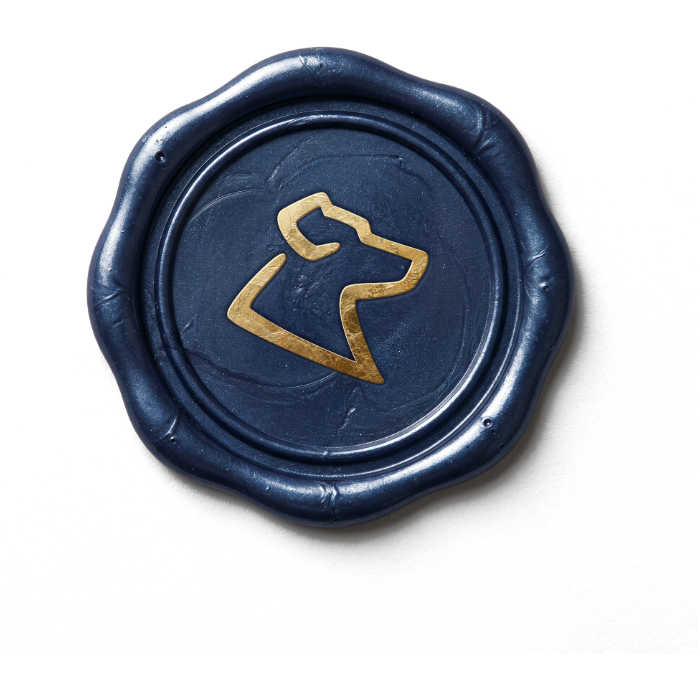
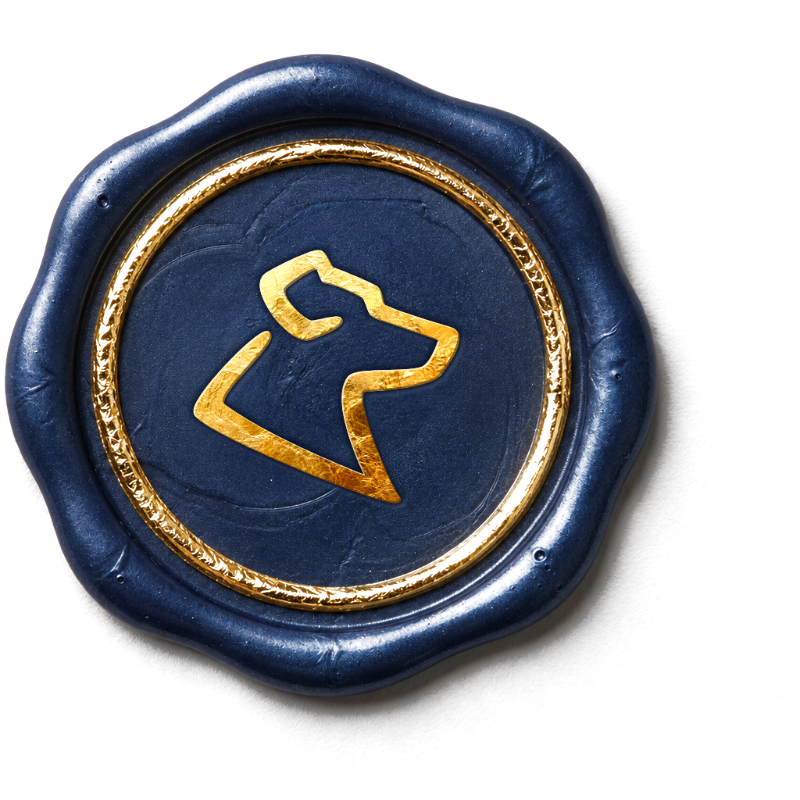
Pečať 2026 v4: zlatý vnútorný kruh, lesklejšia fólia; na faktúre 46 mm (bolo 34)
Claude-Session: https://claude.ai/code/session_01VdPRjyP4qheiKVWdgVFThZ

diff --git a/src/pages/InvoiceRender.tsx b/src/pages/InvoiceRender.tsx
@@ -488,9 +488,10 @@ export default function InvoiceRender() {
     }
     .paid-stamp small { display: block; font-size: 8px; letter-spacing: .34em; font-weight: 500; margin-top: 1.5mm; opacity: .85; }
     .seal {
-      position: absolute; left: 50%; bottom: 24mm;
+      position: absolute; left: 50%; bottom: 20mm;
       transform: translateX(-50%) rotate(-5deg);
-      width: 34mm; height: 34mm; z-index: 3;
+      /* 46 mm (bolo 34) — Matej 24. 11.: „na fakture daj pečať väčšiu“ */
+      width: 46mm; height: 46mm; z-index: 3;
     }
     .seal img {
       width: 100%; height: 100%; object-fit: contain;
@@ -500,7 +501,7 @@ export default function InvoiceRender() {
     /* Pečať sa zmenší LEN keď by do nej narazil obsah (Matej 25. 9. 2026:
        *„nevidím dôvod prečo pri 4 psoch je menšia pečať“*). Triedu dáva meranie
        pred data-render-ready, nie počet psov. */
-    #invoice-page.tight .seal { width: 22mm; height: 22mm; bottom: 22mm; }
+    #invoice-page.tight .seal { width: 28mm; height: 28mm; bottom: 20mm; }
     .note { margin: 0; font-size: 9px; line-height: 1.7; color: var(--ink-faint); flex: 0 1 92mm; }
     .note b { color: var(--ink-soft); font-weight: 600; }
     .foot {
